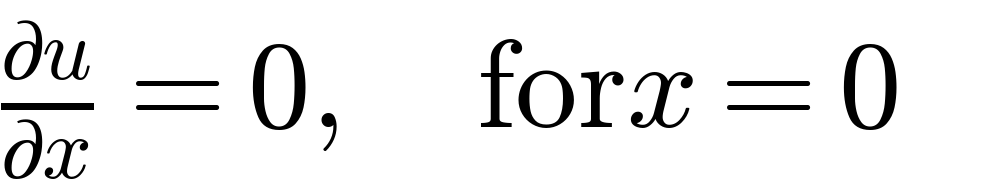
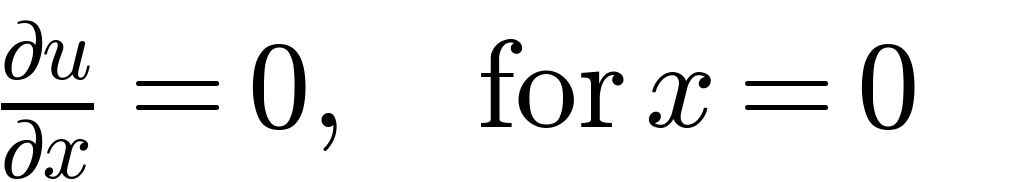
Add images for dark mode

diff --git a/docs/frontpage/img-fea6c2b797c4f20b.tex b/docs/frontpage/img-fea6c2b797c4f20b.tex
@@ -1,0 +1,5 @@
+\begin{matrix}
+\frac{\partial u}{\partial x}(x=1, y) = 0 \\
+\frac{\partial u}{\partial y}(x, y=0) = 0 \\
+\frac{\partial u}{\partial y}(x, y=1) = 0 \\
+\end{matrix}

diff --git a/docs/frontpage/img-79ec3ad29895a658.tex b/docs/frontpage/img-79ec3ad29895a658.tex
@@ -1,2 +1,2 @@
-\frac{\partial u}{\partial x} = 0, \quad {\rm for } x=0
+\frac{\partial u}{\partial x} = 0, \quad {\rm for } \,x=0
 

diff --git a/docs/frontpage/img-79ec3ad29895a659.tex b/docs/frontpage/img-79ec3ad29895a659.tex
@@ -1,1 +1,1 @@
-\frac{\partial u}{\partial y} = 0, \quad {\rm for } y=0
+\frac{\partial u}{\partial y} = 0, \quad {\rm for } \, y=0

diff --git a/docs/frontpage/img-a06bc52fe5a97f4a.tex b/docs/frontpage/img-a06bc52fe5a97f4a.tex
@@ -1,0 +1,4 @@
+\begin{matrix}
+u(x, 0) = 300 \\
+u(1, y) = 300-200y
+\end{matrix}

diff --git a/docs/frontpage/img-e840919a9f9079bd.tex b/docs/frontpage/img-e840919a9f9079bd.tex
@@ -1,0 +1,1 @@
+u(0)=0, \quad u(10)= 1

diff --git a/docs/frontpage/img-17719361f7e419dc.tex b/docs/frontpage/img-17719361f7e419dc.tex
@@ -1,0 +1,1 @@
+u(0, y) = 300
